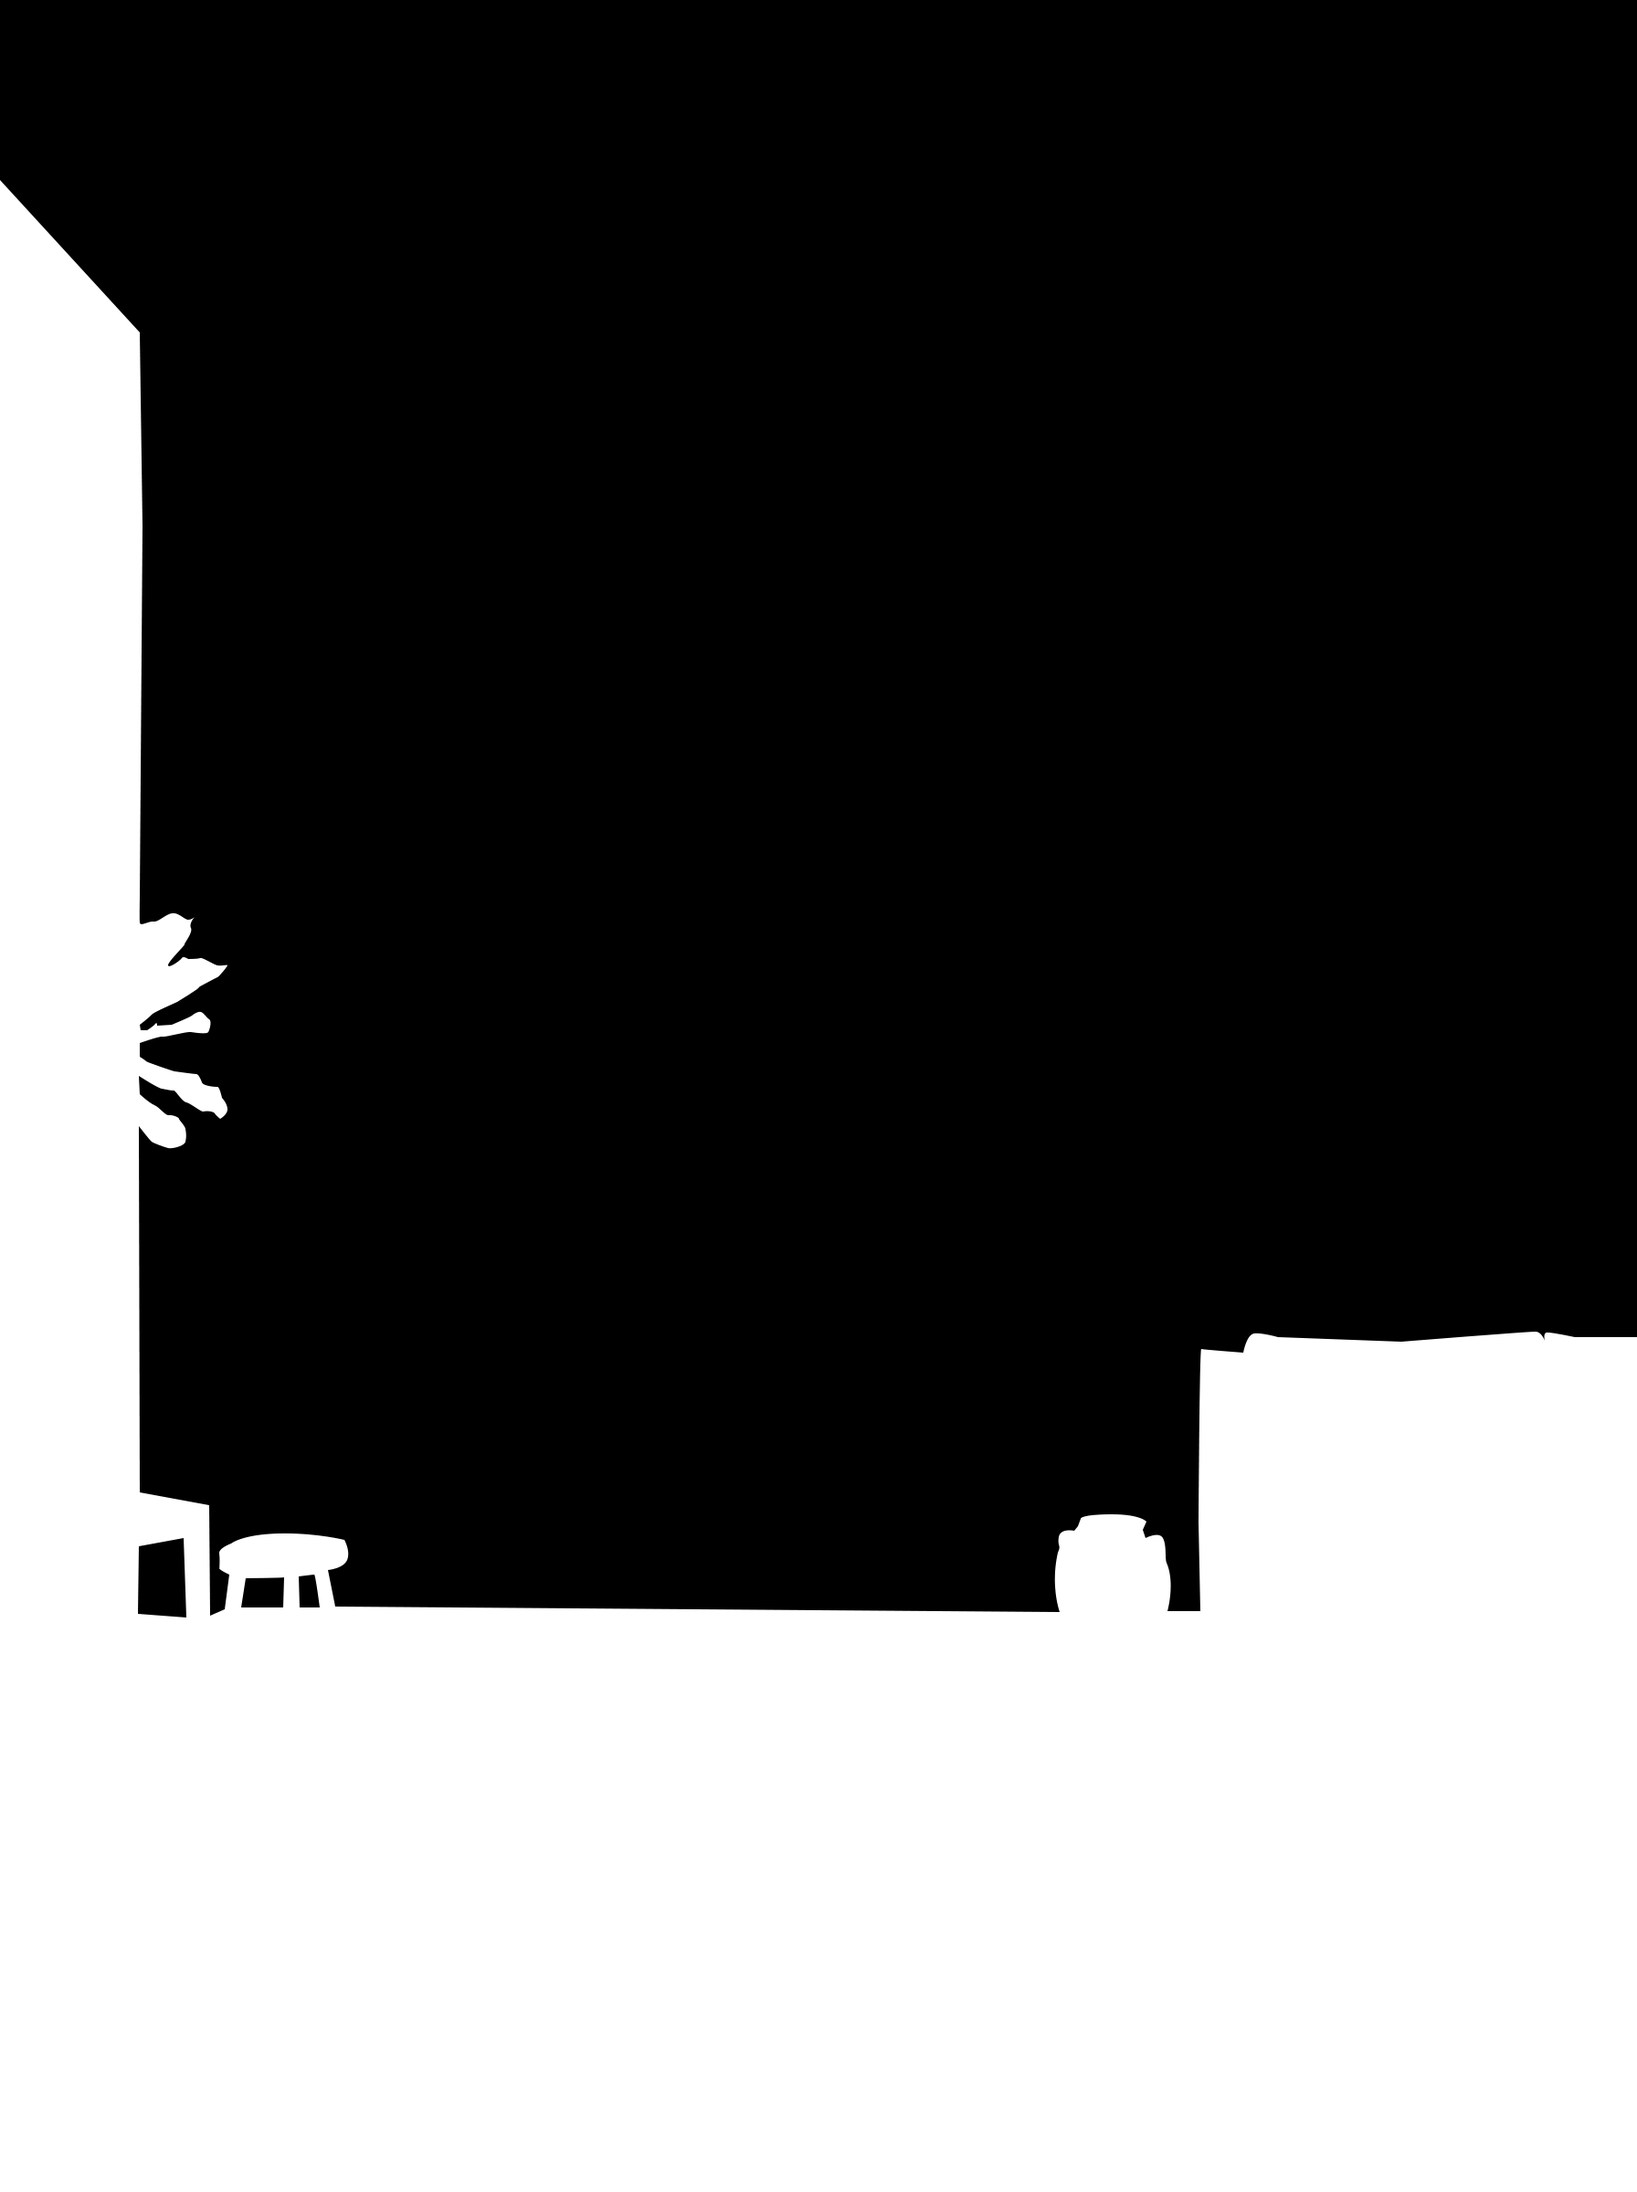
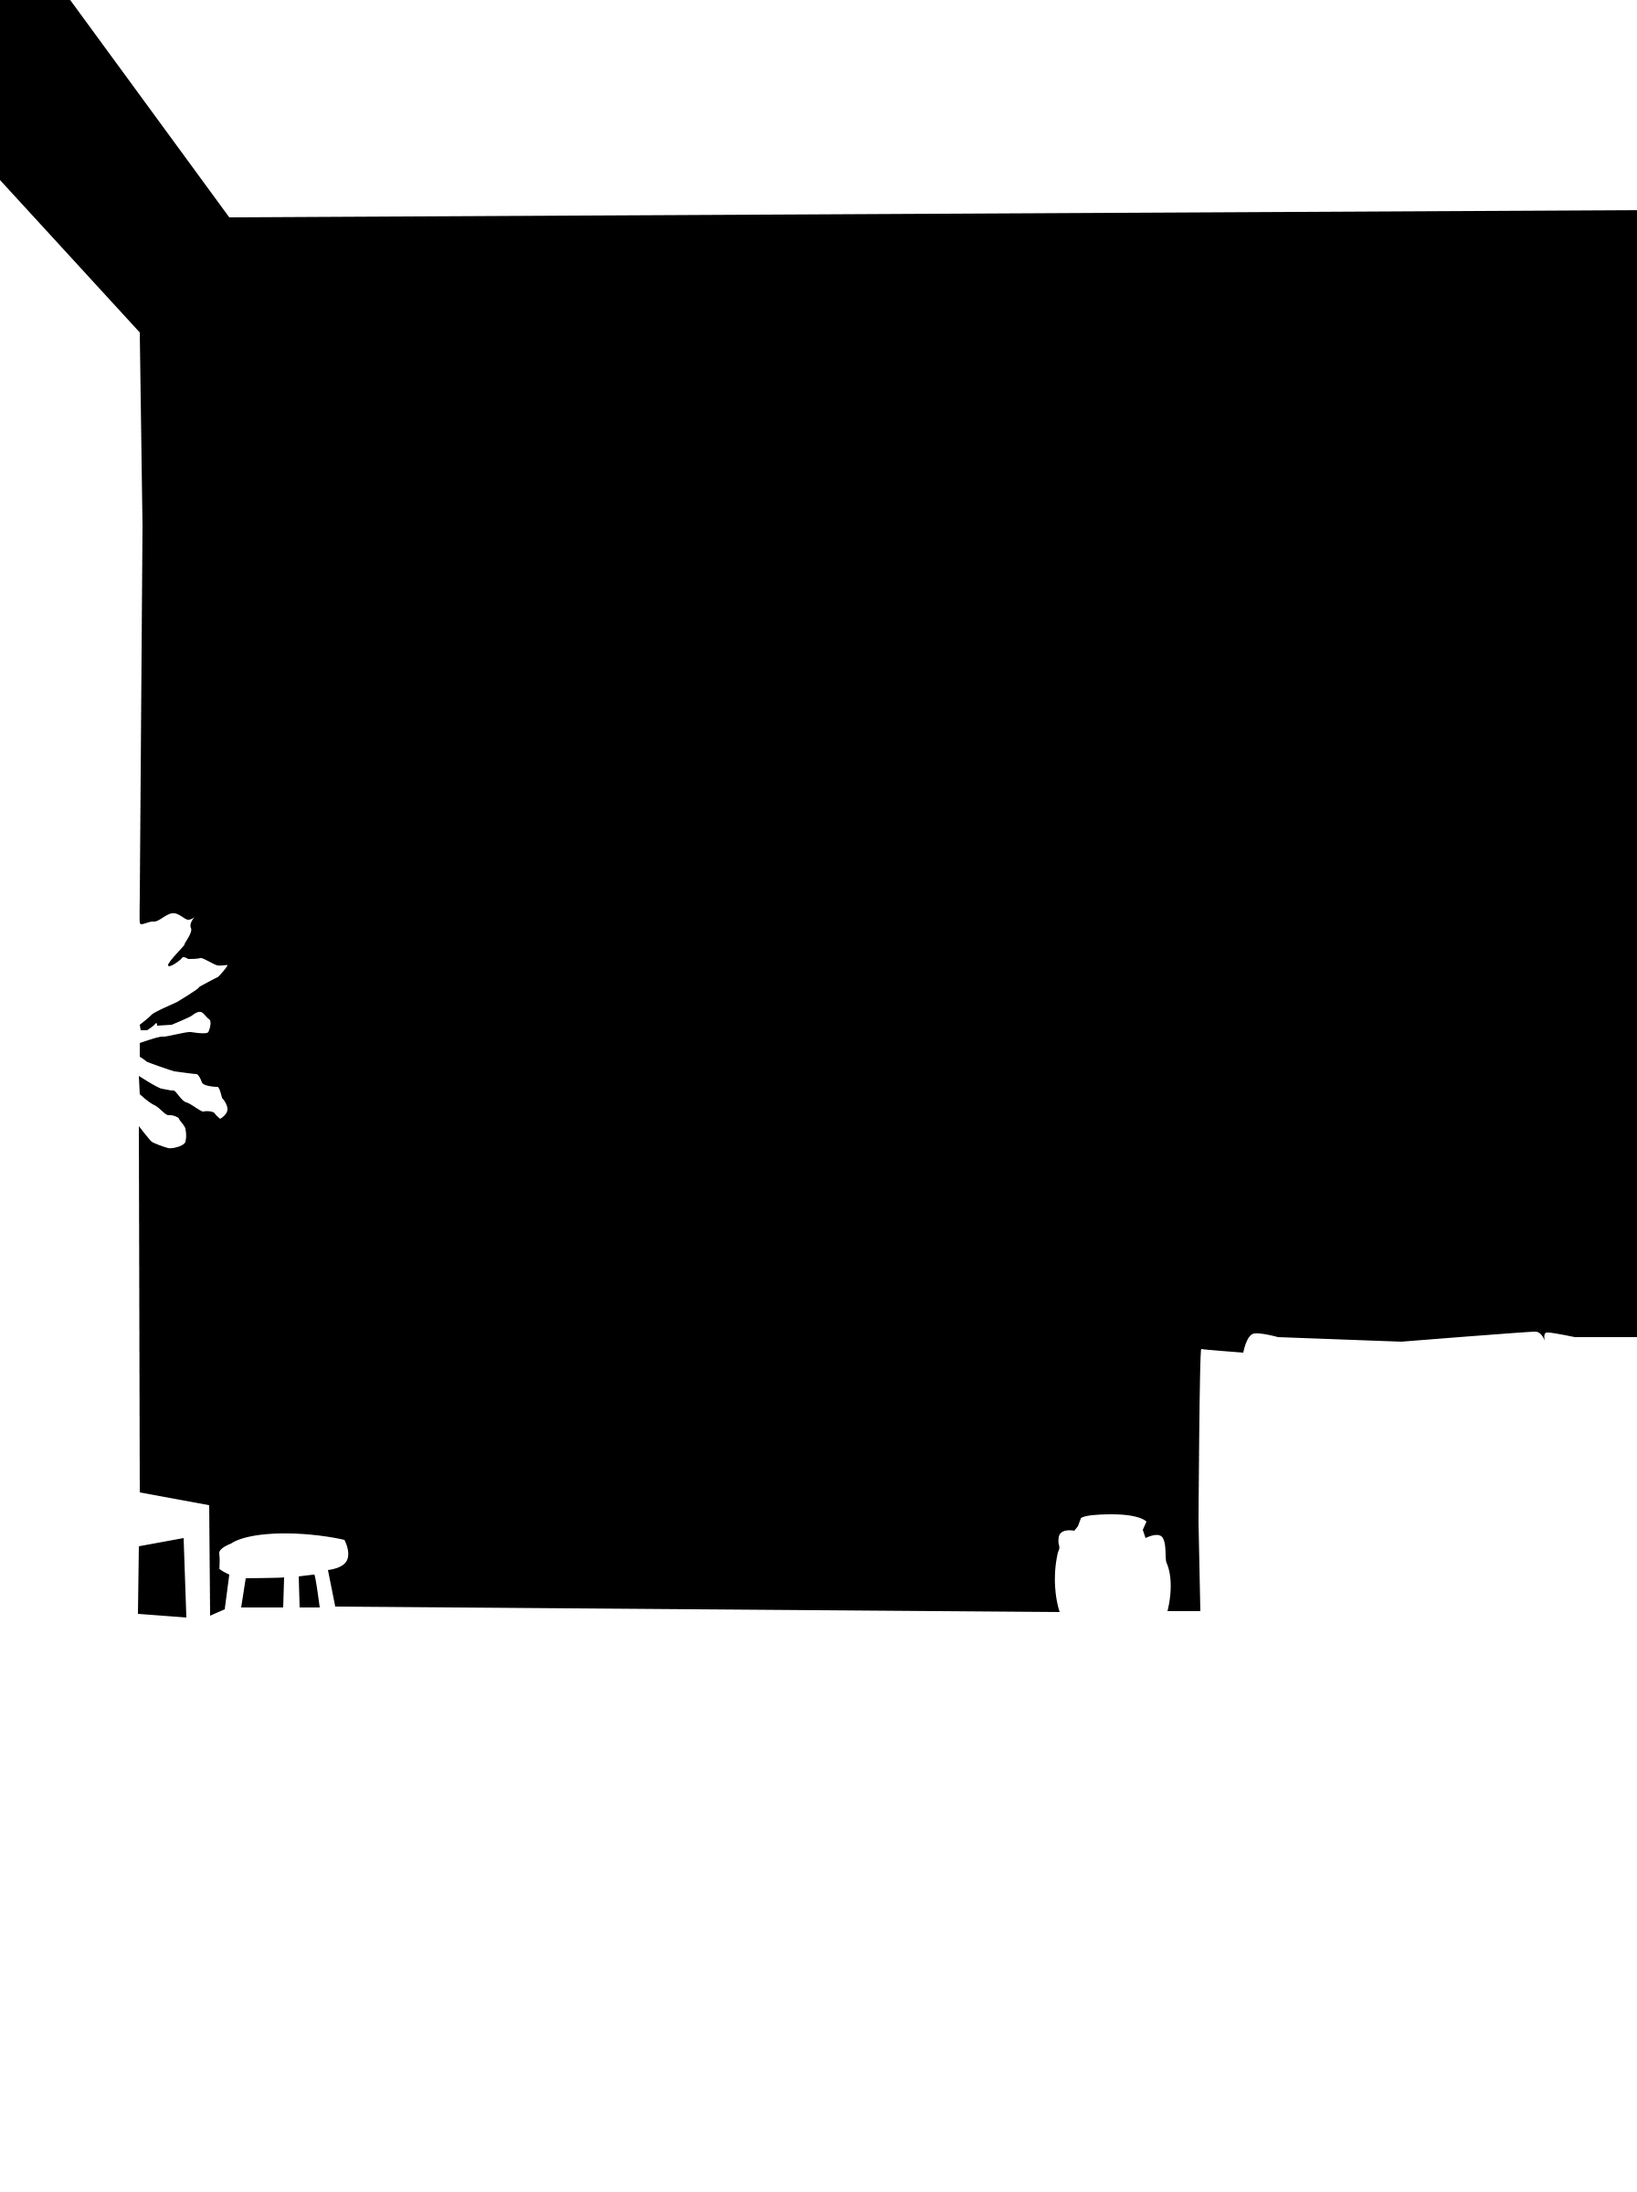
更新对齐问题

Changed region(s): [[0.0312, 0.0, 1.0, 0.125]]

diff --git a/ai-color.html b/ai-color.html
@@ -113,7 +113,7 @@
     <section id="result-section" class="hidden pb-32 px-6 max-w-6xl mx-auto">
         <div class="bg-white rounded-[40px] shadow-2xl overflow-hidden flex flex-col md:flex-row border border-slate-100">
             <div class="md:w-1/2 relative h-[400px] md:h-auto border-r border-slate-100">
-                <img id="res-img" src="" class="w-full h-full object-cover">
+                <img id="res-img" src="" class="w-full h-full object-cover object-center">
                 <div class="absolute bottom-6 left-6 bg-white/90 backdrop-blur-md px-5 py-2.5 text-[10px] font-bold tracking-[0.2em] text-slate-800 rounded-lg shadow-sm">MILLER COLOR PALETTE</div>
             </div>
             <div class="md:w-1/2 p-10 md:p-16 flex flex-col justify-center bg-white">
@@ -143,11 +143,11 @@
     <section id="ai-result-section" class="hidden pb-32 px-6 max-w-6xl mx-auto">
         <div class="bg-white rounded-[40px] shadow-2xl overflow-hidden flex flex-col md:flex-row border border-slate-100">
             <div class="md:w-1/2 relative h-[400px] md:h-auto border-r border-slate-100 bg-white overflow-hidden">
-                <img id="ai-dynamic-base" src="ai-blank-living.jpg" class="absolute inset-0 w-full h-full object-cover">
+                <img id="ai-dynamic-base" src="ai-blank-living.jpg" class="absolute inset-0 w-full h-full object-cover object-center">
                 
-                <div id="ai-dynamic-overlay" class="absolute inset-0 mix-blend-multiply transition-colors duration-1000 ease-in-out" style="background-color: transparent; -webkit-mask-size: cover; mask-size: cover;"></div>
+                <div id="ai-dynamic-overlay" class="absolute inset-0 mix-blend-multiply transition-colors duration-1000 ease-in-out" style="background-color: transparent; -webkit-mask-size: cover; -webkit-mask-position: center; mask-size: cover; mask-position: center;"></div>
                 
-                <div id="ai-sheen-overlay" class="absolute inset-0 mix-blend-screen opacity-30 transition-opacity duration-1000 ease-in-out pointer-events-none" style="background: linear-gradient(135deg, rgba(255,255,255,0.6) 0%, rgba(255,255,255,0) 60%); -webkit-mask-size: cover; mask-size: cover;"></div>
+                <div id="ai-sheen-overlay" class="absolute inset-0 mix-blend-screen opacity-30 transition-opacity duration-1000 ease-in-out pointer-events-none" style="background: linear-gradient(135deg, rgba(255,255,255,0.6) 0%, rgba(255,255,255,0) 60%); -webkit-mask-size: cover; -webkit-mask-position: center; mask-size: cover; mask-position: center;"></div>
                 
                 <div class="absolute inset-0 bg-slate-900/5 pointer-events-none"></div>
                 <div class="absolute bottom-6 left-6 bg-white/90 backdrop-blur-md px-5 py-2.5 text-[10px] font-bold tracking-[0.2em] text-slate-800 rounded-lg shadow-sm">AI 质感渲染系统</div>
@@ -321,7 +321,7 @@
                     let formattedReply = data.reply.replace(/\n/g, '<br>');
                     document.getElementById('ai-response-text').innerHTML = formattedReply;
 
-                    // 正则提取所有 AI 推荐的颜色 (如：Color Is 0588 曜石暗影 (HEX: #22252A))
+                    // 正则提取所有 AI 推荐的颜色
                     const colorRegex = /(Color Is \d{4} [^\(]+?)\s*\(HEX:\s*(#[0-9A-Fa-f]{6})\)/gi;
                     const matches = [...data.reply.matchAll(colorRegex)];
 
